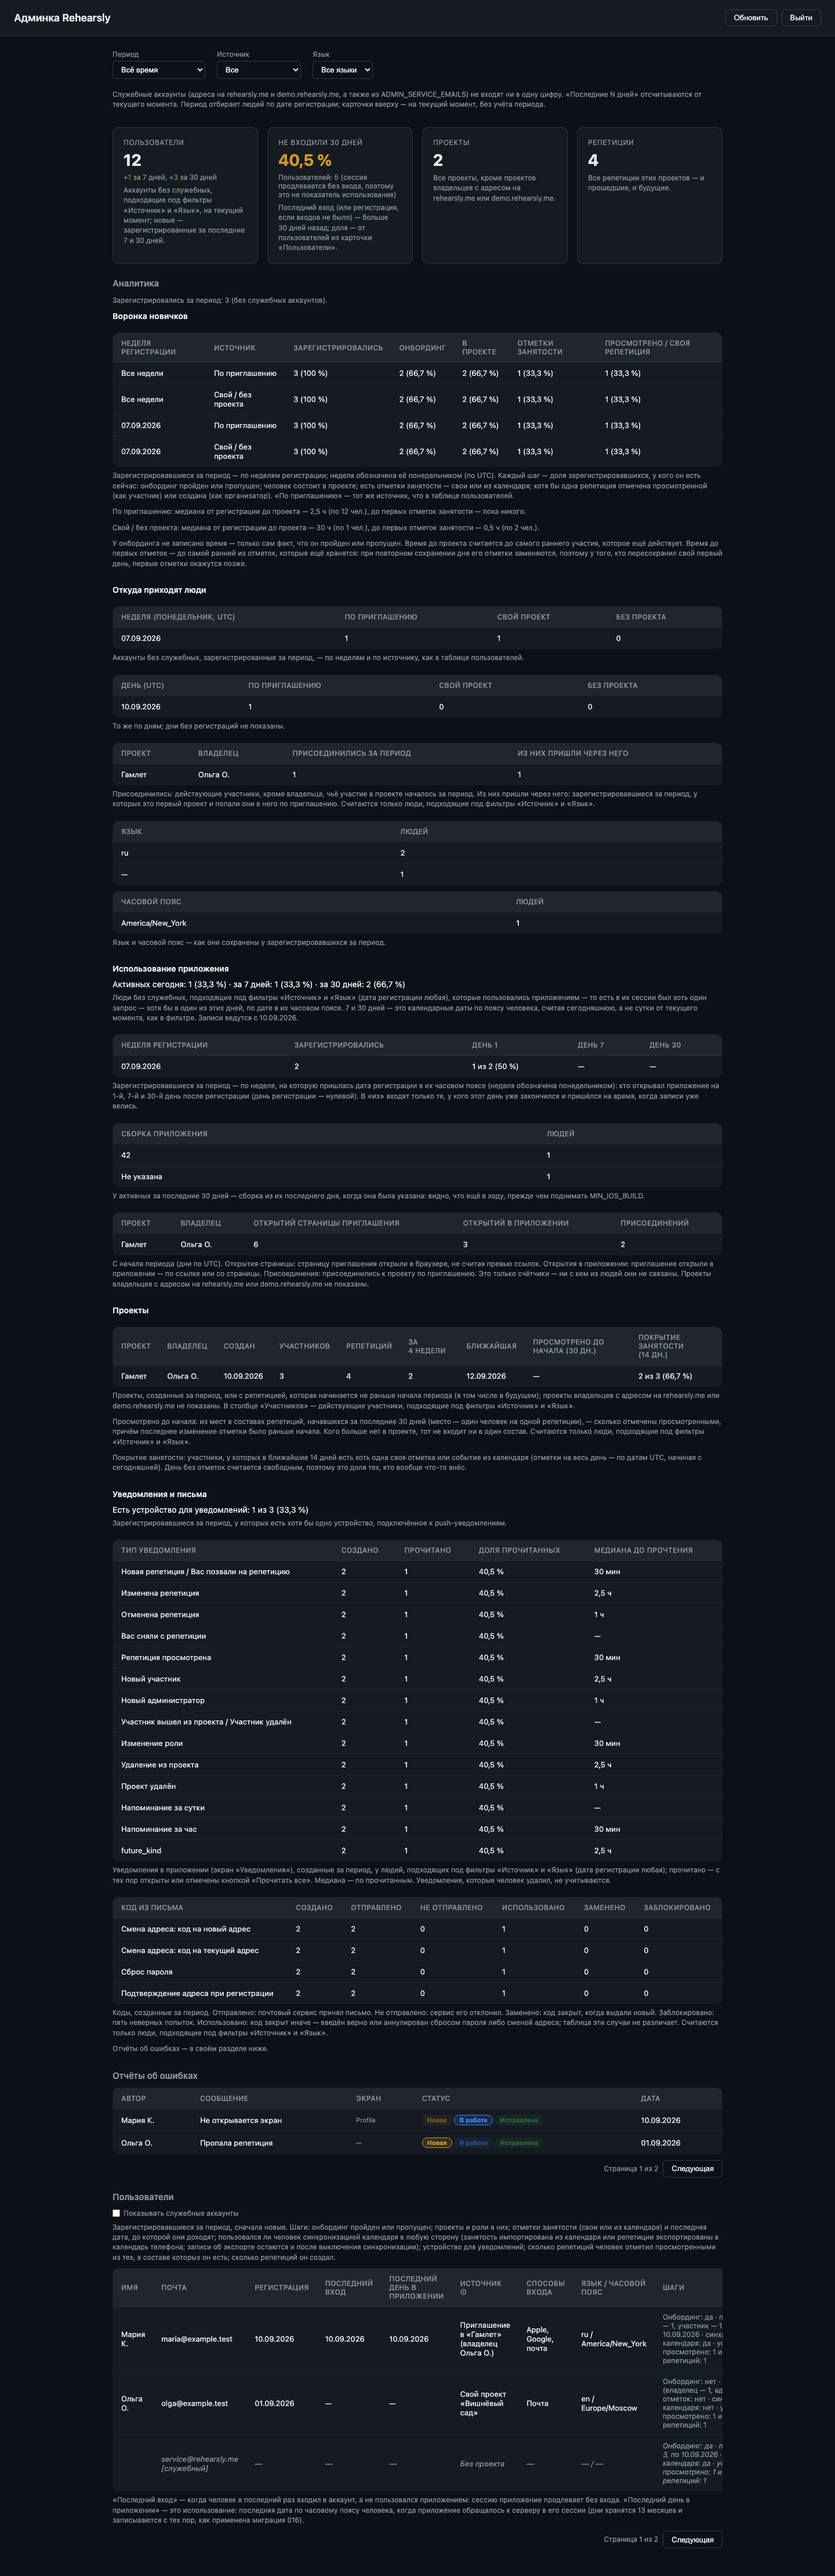
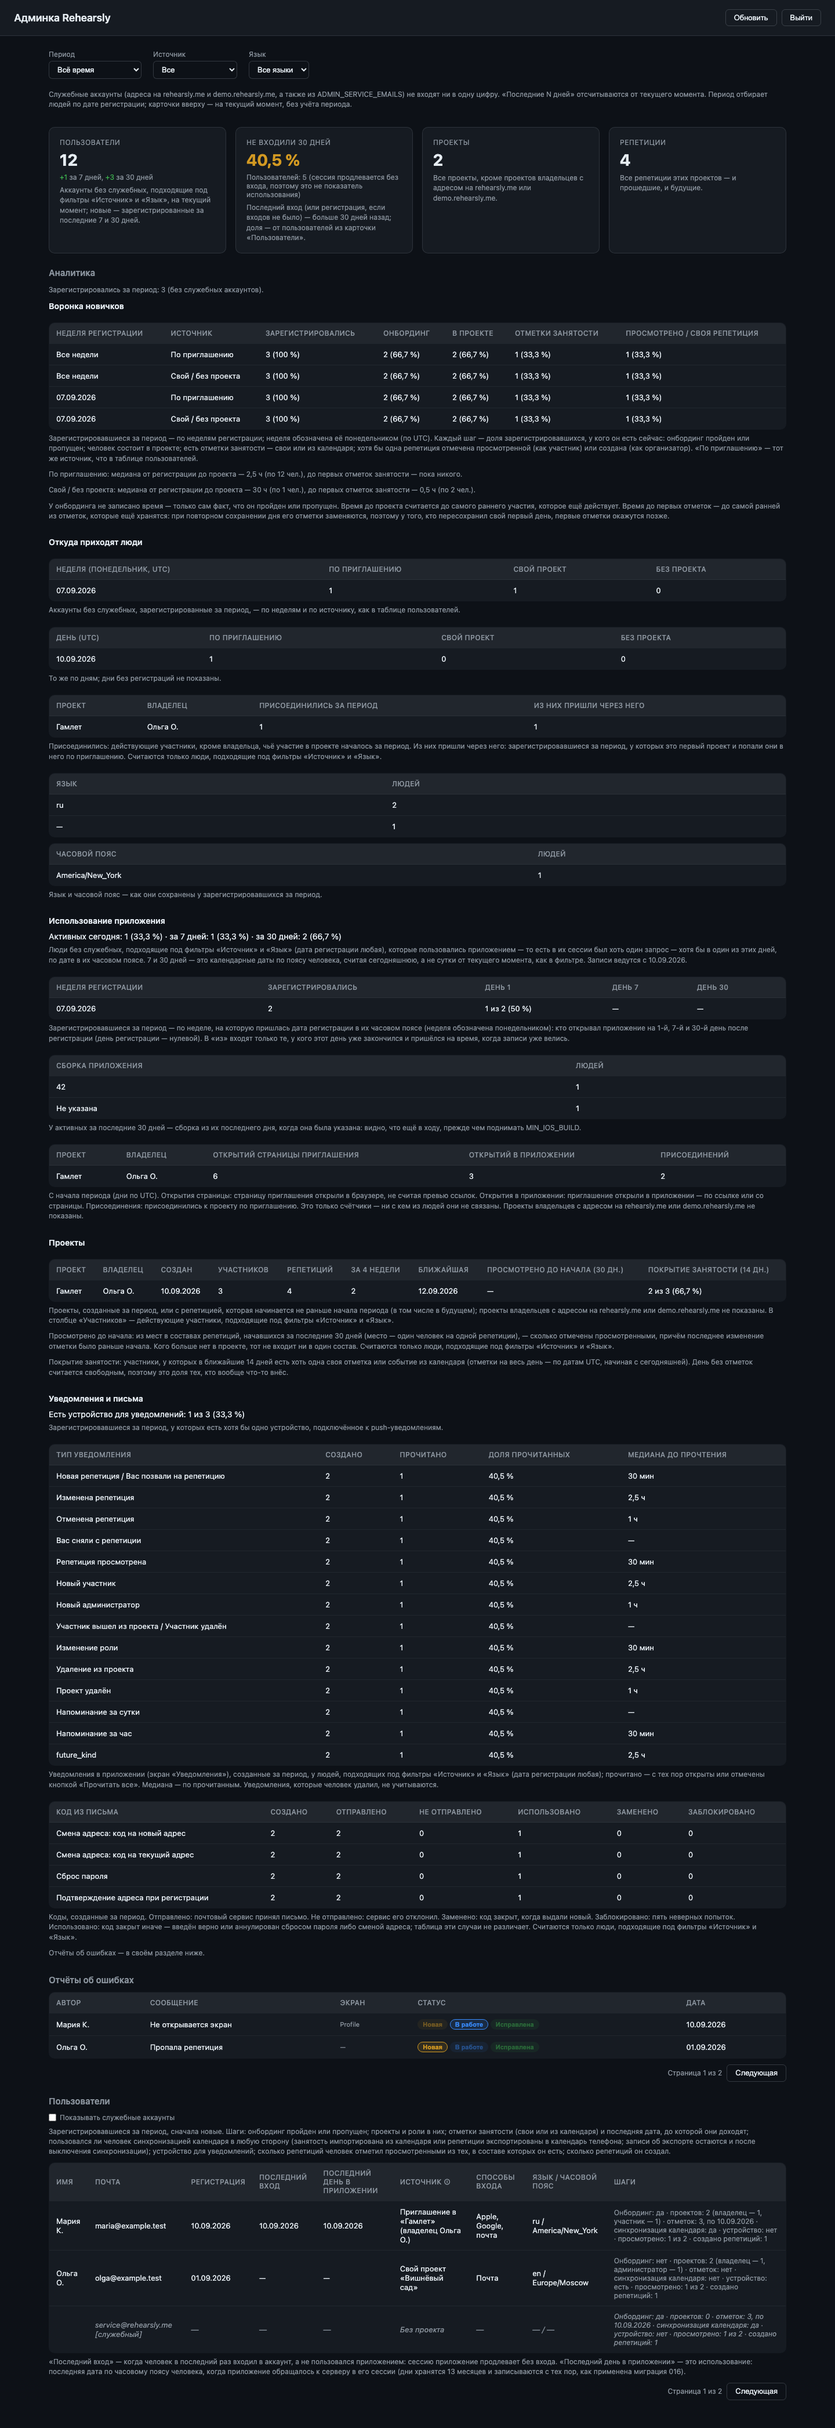
fix(admin): T-419 review 1 - the layout holds the Russian words: the bug reports' table in a .table-scroll like the others (it widened the document to 488 px at 390), the container up to 1320 px, cells 10px 12px and the steps' min-width 220 px (the users' table's least width 1123 px, whole at 1280 a

diff --git a/rehearsal-calendar-native/server/__tests__/middleware/adminLoginNotConfigured.test.js b/rehearsal-calendar-native/server/__tests__/middleware/adminLoginNotConfigured.test.js
@@ -1,0 +1,31 @@
+import { jest } from '@jest/globals';
+import { readFileSync } from 'node:fs';
+import { fileURLToPath } from 'node:url';
+import { adminLogin } from '../../middleware/adminAuth.js';
+
+// The admin page says «Вход не настроен…» only for this answer of adminAuth.js,
+// read by its text (dashboard.js, T-419); any other 503 is «Не удалось войти».
+// The page and the server are tied by this test: a changed text on either side
+// would turn "not configured" into a plain failure without a word.
+const saved = { hash: process.env.ADMIN_PASSWORD_HASH, plain: process.env.ADMIN_PASSWORD };
+afterEach(() => {
+  for (const [name, value] of [['ADMIN_PASSWORD_HASH', saved.hash], ['ADMIN_PASSWORD', saved.plain]]) {
+    if (value === undefined) delete process.env[name];
+    else process.env[name] = value;
+  }
+});
+
+test('without a password the login answers 503 with the text dashboard.js looks for', async () => {
+  delete process.env.ADMIN_PASSWORD_HASH;
+  delete process.env.ADMIN_PASSWORD;
+  const res = { status: jest.fn(() => res), json: jest.fn(() => res) };
+  const next = jest.fn();
+  await adminLogin({ body: { password: 'anything' } }, res, next);
+  expect(next).not.toHaveBeenCalled();
+  expect(res.status).toHaveBeenCalledWith(503);
+  const [[body]] = res.json.mock.calls;
+  expect(body).toEqual({ error: 'Admin panel not configured' });
+
+  const page = readFileSync(fileURLToPath(new URL('../../public/admin/dashboard.js', import.meta.url)), 'utf8');
+  expect(page).toContain(`data?.error === '${body.error}'`);
+});

diff --git a/rehearsal-calendar-native/server/public/admin/dashboard.css b/rehearsal-calendar-native/server/public/admin/dashboard.css
@@ -34,7 +34,10 @@ body {
   font-weight: 600;
 }
 .btn-primary:hover { opacity: 0.9; }
-.container { max-width: 1100px; margin: 0 auto; padding: 24px; }
+/* The users' table is nine columns of Russian words that do not break (dates
+   дд.мм.гггг, addresses, zones, «РЕГИСТРАЦИЯ»): its least width is about 1120 px,
+   so a laptop of 1280 px and more shows it whole (T-419). */
+.container { max-width: 1320px; margin: 0 auto; padding: 24px; }
 
 /* Login */
 .login-wrap {
@@ -131,7 +134,7 @@ table {
 }
 th {
   text-align: left;
-  padding: 10px 14px;
+  padding: 10px 12px;
   background: #21262d;
   color: #8b949e;
   font-weight: 500;
@@ -140,7 +143,7 @@ th {
   letter-spacing: 0.3px;
 }
 td {
-  padding: 10px 14px;
+  padding: 10px 12px;
   border-top: 1px solid rgba(139,148,158,0.1);
 }
 tr:hover td { background: rgba(139,148,158,0.04); }
@@ -200,7 +203,7 @@ tr:hover td { background: rgba(139,148,158,0.04); }
 .block-title { font-size: 14px; font-weight: 600; margin-bottom: 10px; color: #e6edf3; }
 .table-scroll { overflow-x: auto; }
 .mini-table { margin-top: 10px; }
-.steps-cell { color: #8b949e; font-size: 12px; min-width: 260px; }
+.steps-cell { color: #8b949e; font-size: 12px; min-width: 220px; }
 .service-row td { color: #8b949e; font-style: italic; }
 
 .login-button { width: 100%; padding: 10px; }

diff --git a/rehearsal-calendar-native/server/public/admin/dashboard.js b/rehearsal-calendar-native/server/public/admin/dashboard.js
@@ -567,7 +567,7 @@
   function renderNotifications(notifications) {
     const d = notifications.devices;
     return block('Уведомления и письма',
-      element('p', 'metric', 'Есть устройство для уведомлений: ' + d.people + ' из ' + d.of + ' (' + percent(d.rate) + ')'),
+      element('p', 'metric', 'Есть устройство для уведомлений: ' + ratio(d.people, d.of, d.rate)),
       note('Зарегистрировавшиеся за период, у которых есть хотя бы одно устройство, подключённое к push-уведомлениям.'),
       table(['Тип уведомления', 'Создано', 'Прочитано', 'Доля прочитанных', 'Медиана до прочтения'],
         notifications.inbox.map(row => [named(INBOX_TYPES, row.type), row.created, row.read, percent(row.readRate),

diff --git a/rehearsal-calendar-native/server/routes/admin/dashboardPage.js b/rehearsal-calendar-native/server/routes/admin/dashboardPage.js
@@ -86,6 +86,7 @@ export function generateAdminPageHTML() {
       <div id="bugs-error" class="section-error hidden" role="alert"></div>
       <div id="bugs-stale" class="stale-note hidden" role="status"></div>
       <div id="bugs-mutation-status" class="mutation-status hidden" role="status"></div>
+      <div class="table-scroll">
       <table>
         <thead>
           <tr>
@@ -98,6 +99,7 @@ export function generateAdminPageHTML() {
         </thead>
         <tbody id="bugs-body"></tbody>
       </table>
+      </div>
       <div class="pagination" id="bugs-pagination"></div>
     </section>
 

diff --git a/audit/evidence/T-419/report.md b/audit/evidence/T-419/report.md
@@ -93,3 +93,42 @@ login screen, «Log in» among it.
 
 None: `/admin` is a server page, not the app («Сервер … — без сценария»); the
 browser tests above are its scenario.
+
+## Review 1 — the layout holds the Russian words (task item 8)
+
+**Cause.** The users' table is laid out at its least width everywhere: nine
+columns of words that do not break — dates `10.09.2026`, addresses, `America/New_York`,
+upper-case headers «РЕГИСТРАЦИЯ», «ПОСЛЕДНИЙ», «ПРИЛОЖЕНИИ» — and «Шаги» at
+`min-width: 260px` sum to 1195 px, while `.container { max-width: 1100px }` leaves
+1052. The bug reports' table was the one table straight in its `<section>`, not
+in a `.table-scroll`, so on a phone it widened the document (488 px at 390).
+
+**Fix (no string changed):**
+- `dashboardPage.js` — the bug reports' table in a `.table-scroll` like the others;
+- `dashboard.css` — `.container` up to 1320 px, cells `10px 12px` instead of
+  `10px 14px`, «Шаги» `min-width: 220px`. The table's least width is now 1123 px:
+  whole at 1280 (wrapper 1232) and 1440 (1272); narrower screens scroll it inside
+  its wrapper.
+
+**Red before** (`red-before-layout.txt`, the page as at 12877f0): at 1440 and 1280
+`users-section: 1195 > 1052` and `bugs-section: not in a .table-scroll`; at 390
+`document 488 > window 390`. The test asks for no overflow at all, not "as
+before": the English page had 414 at 390 and the users' table 1 px over.
+
+**Green after:** `adminRussian.browser.test.mjs` 7/7 (the four new tests: devices
+«—», 1440, 1280, 390), `test:admin-browser` 17+18, `test:admin-errors-browser` 18,
+`test:admin-stored-browser` 6; Jest `adminLoginNotConfigured.test.js`, `adminHttp.test.js`.
+
+**Screenshots** `after-*` taken again: the laptop's dashboard shows every column
+of «Пользователи»; the phone's is 780 px wide at scale 2, a 390 px document.
+
+**«0 из 0 (—)» of the devices line** (`dashboard.js`): now through `ratio()`, one
+«—» with nobody registered; the test above was red on «Есть устройство для
+уведомлений: 0 из 0 (—)». «просмотрено: 0 из 0» in «Шаги» stays: it has no share
+in brackets, and the native editor's string is «просмотрено: {seen} из {onRoster}»
+(row 178); their proposal was about the «0 из 0 (—)» cells.
+
+**The 503 text.** `__tests__/middleware/adminLoginNotConfigured.test.js` calls
+`adminLogin` without a password and checks the 503 body is
+`{ error: 'Admin panel not configured' }` and that `dashboard.js` compares with
+that very text: a change on either side fails it.
